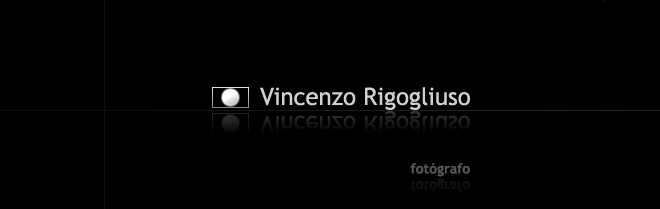
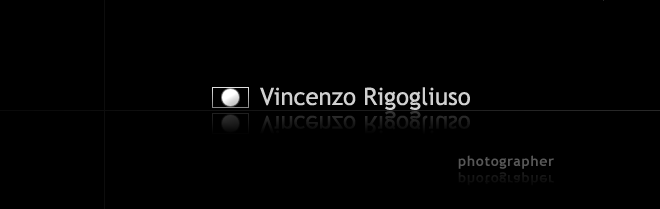
English version

Changed region(s): [[0.6061, 0.7464, 0.8485, 0.8325]]

diff --git a/vincenzo/main.htm b/vincenzo/main.htm
@@ -30,8 +30,8 @@
                 </div>
                 
                 <div class="menu clearfix PE_panels">
-                	<ul>
-						<li class="selected"><a class="menuItem" href="#home" title="Click to open">Contacto</a></li>
+                    <ul>
+			<li class="selected"><a class="menuItem" href="#home" title="Click to open">Contact me</a></li>
                     </ul>
                 </div> 
 								
@@ -47,18 +47,18 @@
                     <div id="home" class="PE_exclusivePanels">
                     
                         <h2>Vincenzo Rigogliuso</h2>
-                        <p>calle Salvá 77 2-1</p>
+                        <p>Calle Salvá 77 2-1</p>
                         <p>08004 Barcelona</p>
                         <!--<p class="mono">T: +34 932690296</p>-->
-                        <p class="mono">M: +34 667394557</p>
+                        <p>M: +34 667394557</p>
                         <p><a href="mailto:vincenzorigogliuso@gmail.com">vincenzorigogliuso@gmail.com</a></p>
                                         
                         <!--<img src="images/homeBG.jpg" />-->
 						<div id="emailModule">
-							<input name="sender" type="text" title="Tu E-mail..." />
-							<textarea name="message" title="Tu Mensaje..."></textarea>
+							<input name="sender" type="text" title="Your E-mail..." />
+							<textarea name="message" title="Your message..."></textarea>
                             <div class="buttons">
-	                            <a href="#sendMail" class="button"><strong>@</strong>Envía</a>                
+	                            <a href="#sendMail" class="button"><strong>@</strong>Send</a>                
                             </div>
 						</div>
                     </div>                                           

diff --git a/vincenzo/script/script.js b/vincenzo/script/script.js
@@ -90,7 +90,7 @@ window.prompt=function(msg,callback,container){
 }
 
 main={	
-	picturePath:"/public/Galeria",
+	picturePath:"/public/Photo gallery",
 	userLogged:false,
 	currentFolder:this.picturePath,
 	init: function(){
@@ -241,9 +241,10 @@ main={
 
 					var code=$(main.fileUploadCode(main.currentFolder,false,function(msg){
 
-					var pageNotes=$("#toolsPanel .textEditor textarea").attr("value")
-					var title=$("#toolsPanel .textEditor input").attr("value")	
-					var info='{title:' + "'" + title + "',description:'" + pageNotes + "',cover:'" + msg.fileName + "'}"							
+					var 	pageNotes=$("#toolsPanel .textEditor textarea").attr("value"),
+						title=$("#toolsPanel .textEditor input").attr("value"),
+						info='{title:' + "'" + title + "',description:'" + pageNotes + "',cover:'" + msg.fileName + "'}";
+						
 					if(!msg.error)														
 						$.getJSON(	"writeFile.asp",
 									{fileName:main.currentFolder + "/info.json", content:info},
@@ -459,7 +460,10 @@ main={
 								var cover=$("#cover img").attr("src")
 								$.getJSON(
 									"writeFile.asp",
-									{fileName:currentFolder + "/info.json",content:"{title:'" + folderTitle+"'," + "description:'" + folderDescr + "',cover:'" + cover + "'}"},
+									{
+										fileName:currentFolder + "/info.json",
+										content:"{title:'" + folderTitle+"'," + "description:'" + folderDescr + "',cover:'" + cover + "'}"
+									},
 									function(data){
 										myConsole.json(data)
 										if(!data.error){
